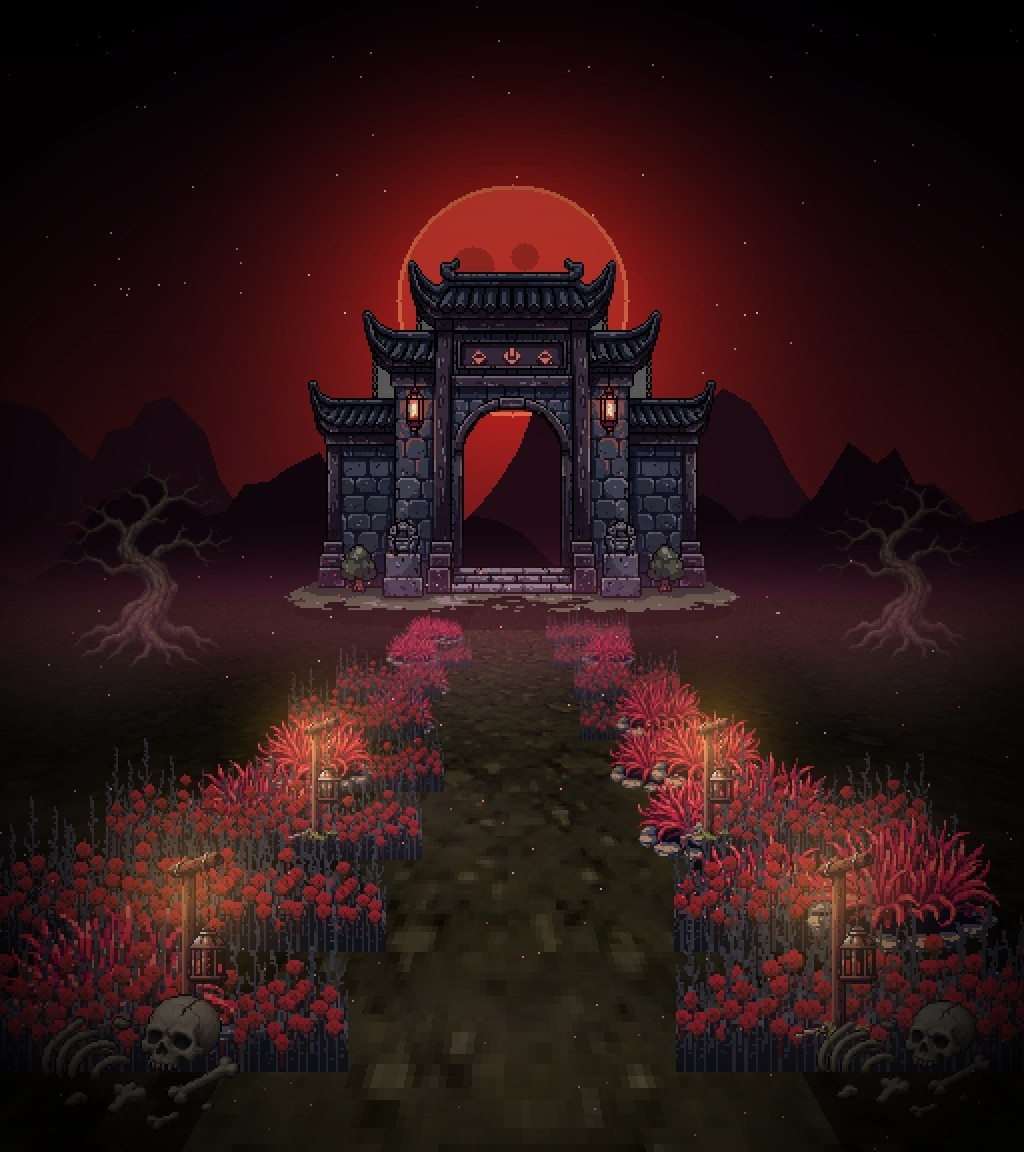
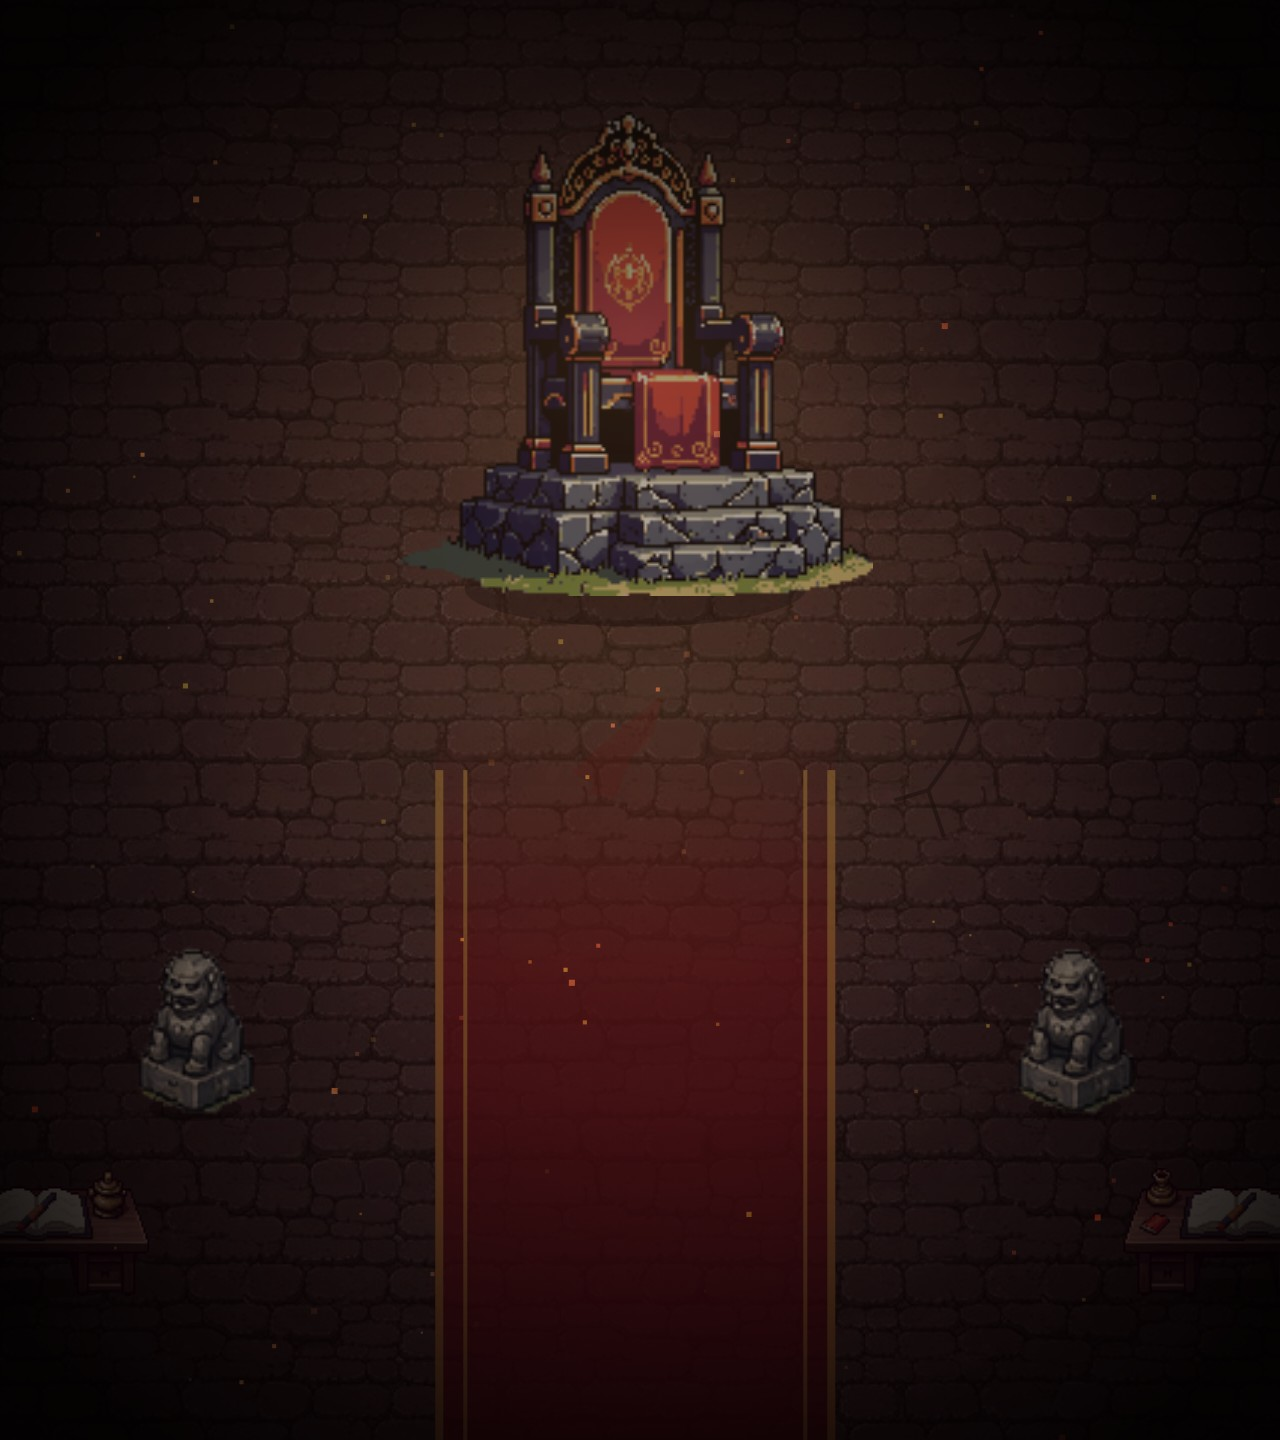
Anh giua man tao nhan vat: doi sang canh dien Diem La chup tu game (ngai, tham do); luu ban Luan Hoi thay the
Claude-Session: https://claude.ai/code/session_01QQj46rsF4z2ee4KuP8oJja

diff --git a/cong_cu/claude/test25/scene_shots.js b/cong_cu/claude/test25/scene_shots.js
@@ -1,0 +1,16 @@
+// Chụp cảnh map Âm Giới do game dựng (ẩn nhân vật + HUD) làm ảnh giữa màn tạo nhân vật. Dùng: node scene_shots.js <outdir>
+const L=require('/home/user/hoathan/cong_cu/claude/rec_lib');const OUT=process.argv[2];
+const SC=[['diemla',15,1600,760],['luanhoi',18,1600,1330],['hoangtuyen',1,1600,780],['nghiepkinh',7,1600,820]];
+(async()=>{const {b,pg,errs}=await L.open(process.argv[3]||'/home/user/hoathan/game',{gender:'nam',w:640,h:720,dsf:2});
+await pg.evaluate(()=>clearInterval(__auto));const step=async n=>{for(let i=0;i<n;i++)await pg.evaluate(()=>__step(1000/30))};
+await pg.click('.lbt[data-lb="amgioi"]');await step(2);await pg.click('#amGo');await step(60);
+await pg.evaluate(()=>{window.__noP=1});
+for(const [n,f,x,y] of SC){
+ await pg.evaluate((f)=>{const G=TDST.GG();G.am.floor=f;G.am.start=f;amEnterFloor(f)},f);
+ await new Promise(r=>setTimeout(r,800));await step(10);
+ await pg.evaluate(([x,y])=>{const G=TDST.GG();G.enemies.length=0;G.spawnQ.length=0;G.later=[];TDST.P.hp=1e9;TDST.P.inv=1e9;TDST.P.x=x;TDST.P.y=y;G.cam.x=x;G.cam.y=y;G.paused=false;for(const s of ['#hud','#joy','#notice','#bossbar'])document.querySelectorAll(s).forEach(e=>e.style.display='none')},[x,y]);
+ await step(40);
+ await pg.evaluate(()=>{const G=TDST.GG();G.enemies.length=0;G.spawnQ.length=0});await step(4);
+ await pg.screenshot({path:`${OUT}/scene_${n}.png`});console.log(n,'ok');
+ await pg.evaluate(()=>{for(const s of ['#hud','#joy','#notice','#bossbar'])document.querySelectorAll(s).forEach(e=>e.style.display='')})}
+console.log('errors',errs.length,errs.slice(0,2));await b.close()})();

diff --git a/CLAUDE.md b/CLAUDE.md
@@ -568,3 +568,8 @@ Chủ game gửi ảnh sảnh iPhone ngang (~664×307, trong trình duyệt nên
 - **Nhược điểm của bản tạm:** các mảng hoa bỉ ngạn lấy từ ảnh vật nên còn mép chữ nhật tối dưới chân hoa, nền đường phóng phối cảnh hơi vỡ ô gần đáy. Chủ game có ảnh thật (ChatGPT vẽ, dọc ~1024×1152 hoặc 1024×1536, chủ thể ở giữa, rìa tối dần, không chữ) thì chỉ cần thay file cùng tên, không sửa code. Bản tạm cũ giữ ở `nguon/vfx_goc/nen_tao_nhan_vat_tam_cu_dat.jpg`. Ảnh trong game: `nguon/tham_chieu/nen_tao_nhan_vat_moi_trong_game.png`.
 - Hướng khác đã đề xuất cho chủ game (chưa làm): sáu bóng người sáu phái trước cổng âm phủ, đạo sĩ Mao Sơn trấn âm binh, pháp trận bát quái bùa vàng, điện Diêm La.
 
+## ẢNH GIỮA MÀN TẠO NHÂN VẬT: ĐỔI LẦN 2 (25/11, chủ game chê bản Hoàng Tuyền ghép "xấu vãi, khác đi")
+- Bản ghép Hoàng Tuyền (`nen_tao_nv.py`, còn trong repo, ảnh `nguon/tham_chieu/nen_tao_nhan_vat_tam_hoangtuyen.jpg`) bị chê. **Nay dùng ẢNH CHỤP CẢNH GAME DỰNG: điện Diêm La** (ngai Diêm Vương, thảm đỏ viền vàng, hai sư tử đá, bàn phán, tàn lửa), ẩn nhân vật và HUD, viền tối nhẹ: `game/assets/ui/nen_tao_nhan_vat.jpg` 1280×1440 (~176 KB). Ảnh thay thế sẵn: `nguon/tham_chieu/nen_tao_nhan_vat_luanhoi.jpg` (đài Luân Hồi tím); chép đè lên file cùng tên là đổi.
+- **Cách chụp:** `cong_cu/claude/test25/scene_shots.js <outdir> <thư mục game bản sao>`: vào Âm Giới, `amEnterFloor(f)` tới tầng của map (Diêm La = tầng 15, Luân Hồi = 18, Hoàng Tuyền = 1, Nghiệt Kính = 7), đặt `P` và camera, ẩn `#hud`, viewport 640×720, `dsf` 2. **Ẩn nhân vật cần bản sao game có công tắc `window.__noP`** trong dòng vẽ `if(e===P){...}` của `render` (ghi đè `window.drawPlayer` KHÔNG ăn): `cp -r game <tạm>` rồi vá dòng đó, chạy script với thư mục tạm. Bản chính không có công tắc.
+- Hướng khác đã đề xuất (chưa làm): sáu bóng người sáu phái trước cổng âm phủ, đạo sĩ Mao Sơn trấn âm binh, pháp trận bát quái bùa vàng. Chủ game có ảnh thật (ChatGPT, dọc ~1024×1152, chủ thể giữa, rìa tối dần, không chữ) thì thay file cùng tên.
+
